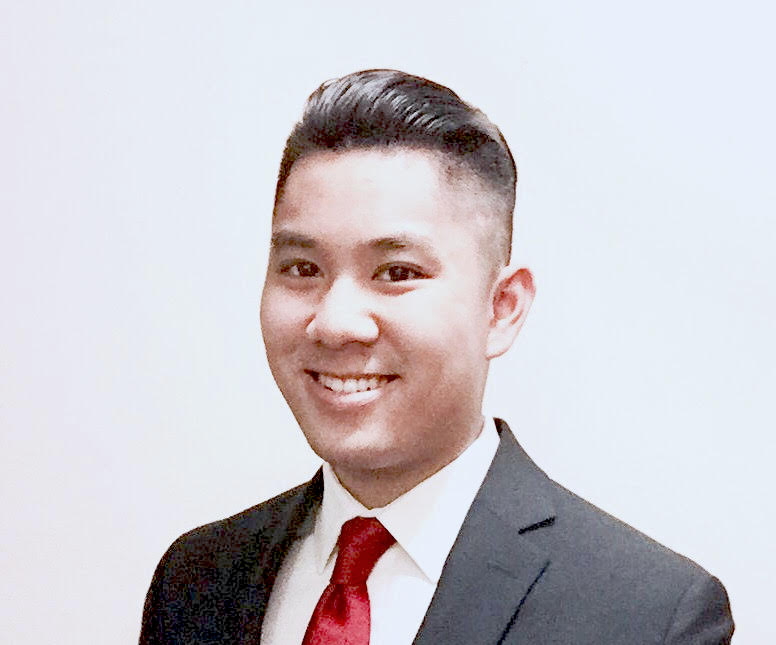
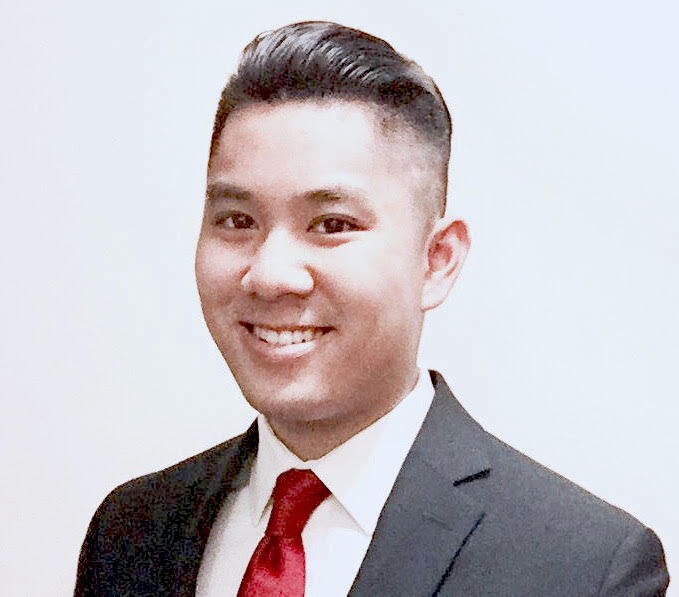
change

diff --git a/index.html b/index.html
@@ -31,7 +31,7 @@
 						<!-- One -->
 							<section id="one" class="wrapper spotlight style1">
 								<div class="inner">
-									<p href="#" class="image"><img src="images/pic.jpg" alt="" /></p>
+									<p href="#" class="image"><img src="images/pic1.jpg" alt="" /></p>
 									<div class="content">
 										<h2 class="major">About Me</h2>
 										<p>Hello there!
